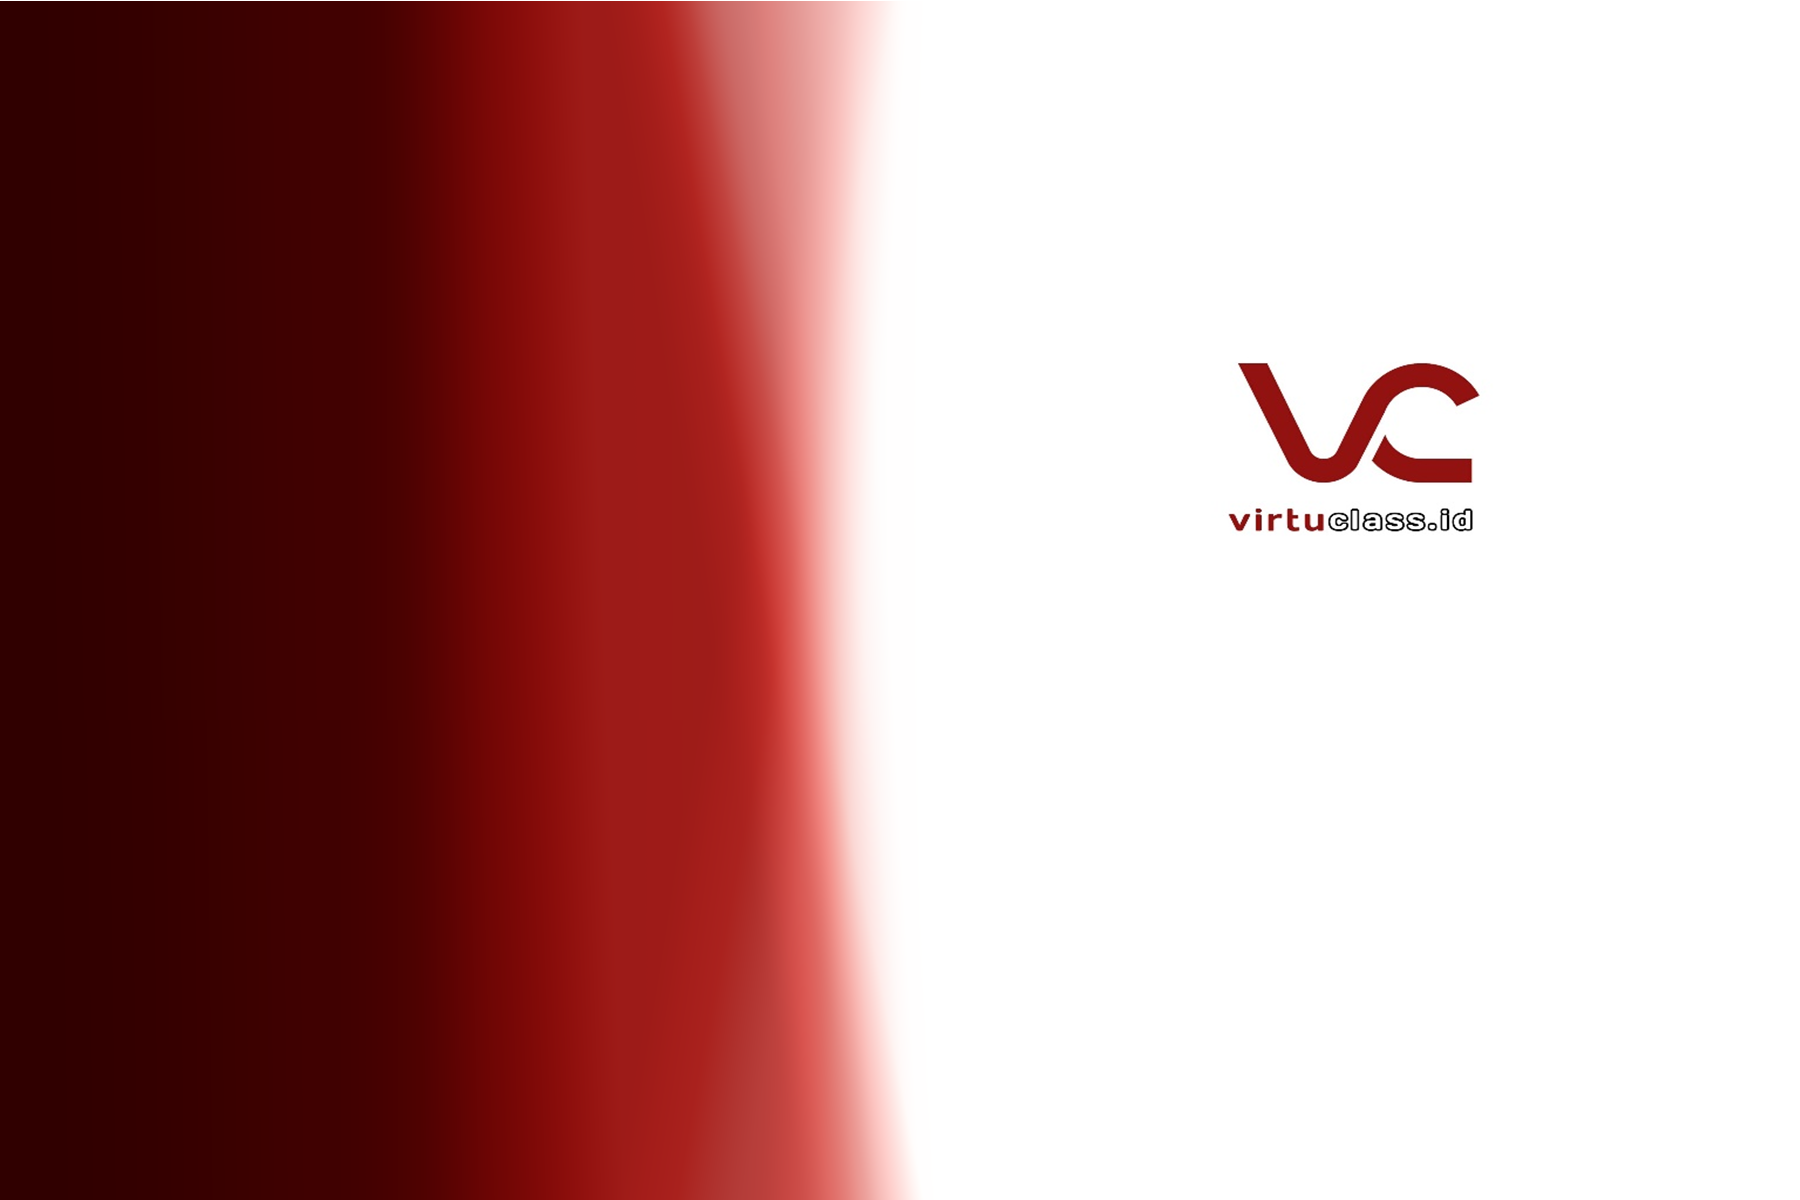
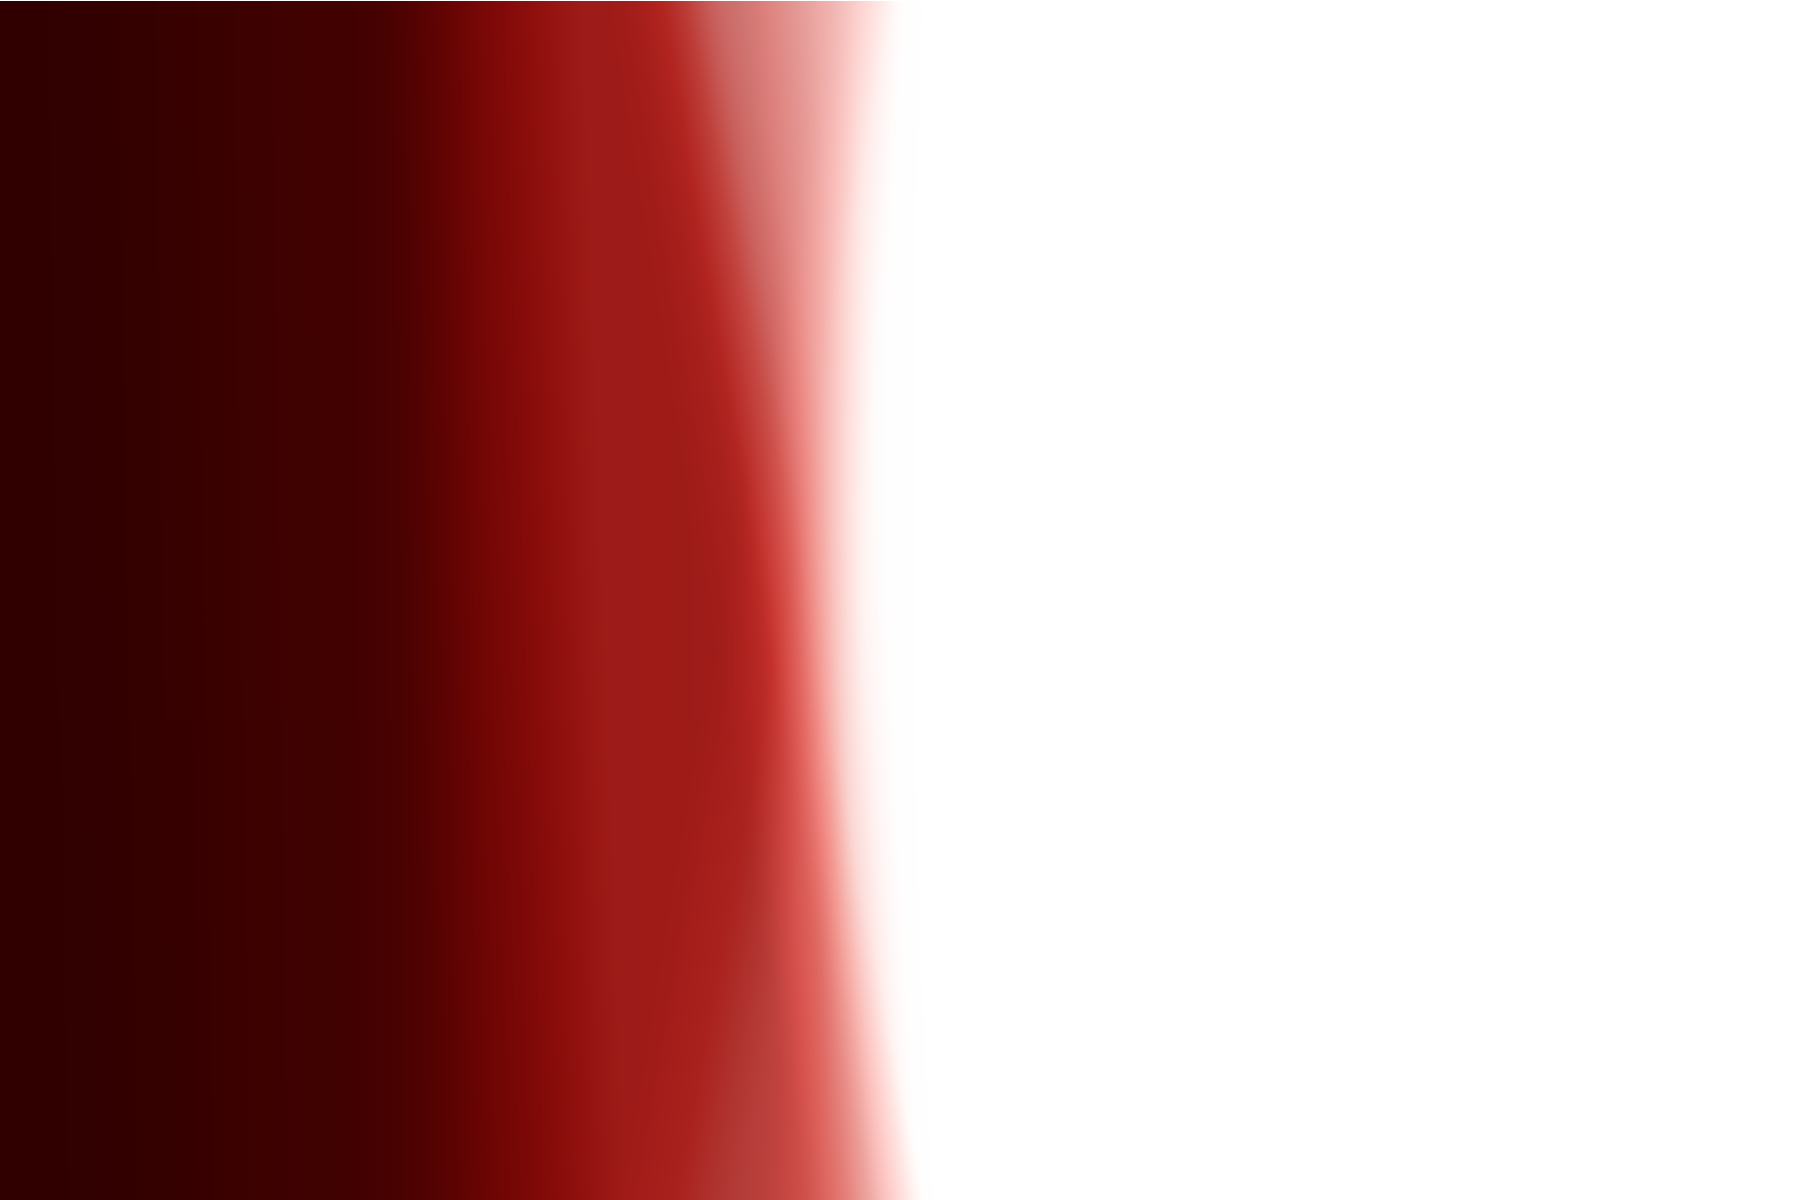
update biar kompetibel di mobile
ganti ganti di max width 400 px an

Changed region(s): [[0.6844, 0.2775, 0.84, 0.4625]]

diff --git a/index.html b/index.html
@@ -63,6 +63,7 @@
 <section id="hero" class="section">
 <div class="container">
 	<div class="row">
+		<img src="assets/img/virtuclass_logoAsset 2.svg" class="upper-logo">
 		<div class="col-md-5">
 			<div class="herotext">
 				<h1 class="wow bounceInDown" data-wow-duration="1s" data-wow-delay="0.1s">Virtu<span class="lighter">Class</span></h1>
@@ -70,27 +71,28 @@
 					Belajar, Bercanda, Mengerti
 				</p>
 				<p>
-					<a href="https://www.instagram.com/virtuclass.id/" class="btn btn-default btn-lg wow fadeInLeft" role="button"> Klik di sini untuk <i>Media Social</i> Kami </a>
+					<a href="https://www.instagram.com/virtuclass.id/" class="btn btn-default btn-lg wow fadeInLeft" role="button"><i>Media Social</i> Kami </a>
 				</p>
 			</div>
 		</div>
 		<div class="col-md-7">
+			<img src="assets/img/virtuclass_logoAsset 2.svg" alt="virtuclass logo" class="img-vc-logo">
 		</div>
 	</div>
 </div>
 </section>
 <!-- About
 	================================================== -->
-<section id="about" class="parallax section" style="background-image: url(http://themepush.com/demo/runcharity/assets/img/1.jpg);">
+<section id="about" class="parallax section" style="background-image: url(assets/img/white\ bg.png);">
 <div class="wrapsection">
-	<div class="parallax-overlay" style="background-color: #640701;opacity:0.9;"></div>
+	<div class="parallax-overlay" style="background-color: #ffffff;opacity:0.9;"></div>
 	<div class="container">
 		<div class="row">
 			<div class="col-md-12">
 				<!-- Title -->
 				<div class="maintitle">
-					<h3 class="section-title"><strong>Virtu<span class="lighter">Class</span> Merupakan Sebuah Komunitas</strong> Belajar</h3>
-					<p class="lead">
+					<h3 class="section-title" style="color: #A90011;"><strong>Virtu<span class="lighter">Class</span> Merupakan Sebuah Komunitas</strong> Belajar</h3>
+					<p class="lead" style="color: #A90011;">
 						Apa saja yang kami lakukan?
 					</p>
 				</div>
@@ -134,14 +136,14 @@
 </section>
 <!-- Random
 	================================================== -->
-<section class="parallax section" style="background-image: url(assets/img/bg_vid.png);">
+<section class="parallax section">
 	<div class="wrapsection">
 	<div class="parallax-overlay"></div>
 	<div class="container">
 		<div class="row">
 			<div class="col-md-12 sol-sm-12">
 				<div class="maintitle">
-					<iframe src="https://www.youtube.com/embed/V3fnvxaiQsk" width="700" height="400" frameborder="0"></iframe>
+					<iframe src="https://www.youtube.com/embed/V3fnvxaiQsk" width="700" height="400" frameborder="0" class="youtube-embed"></iframe>
 				</div>
 			</div>
 		</div>

diff --git a/assets/css/style.css b/assets/css/style.css
@@ -388,6 +388,9 @@ label {
 	background-size: cover;
 	z-index: -100;
 }
+.parallax.section{
+	background-image: url(../img/virtuclass_banner_mobile.png);
+}
 /*	Navbar	==================================================*/
 .navbar-inverse .navbar-brand {
 	padding:30px 15px;
@@ -432,6 +435,7 @@ label {
 }
 #hero .herotext {
 	padding:160px 0px;
+	float: left;
 }
 #hero h1 {
 	font-size:50px;
@@ -441,6 +445,19 @@ label {
 }
 #hero .btn {
 	font-size:12px;
+}
+.img-vc-logo {
+	float: right;
+	padding-top: 80px;
+	width: 300px;
+	height: 400px;
+}
+.upper-logo{
+	padding-left: 8px;
+	padding-top: 8px;
+	width: 100px;
+	height: 100px;
+	display: none;
 }
 /*	Features	==================================================*/
 #features {
@@ -462,8 +479,8 @@ label {
 }
 .service-box {
 	margin-bottom:30px;
-	background-color:#fff;
-	color:#444;
+	background-color: #A90011;
+	color:rgb(255, 255, 255);
 	padding:30px;
 	  position: relative;
 }
@@ -1255,7 +1272,7 @@ img.mfp-img {
 					padding-right:30px;
 	}
 	#hero h1 {
-					font-size:38px;
+					font-size:20px;
 	}
 	#hero p.lead {
 					font-size:1.5em;
@@ -1263,4 +1280,25 @@ img.mfp-img {
 	.faq-block {
 					margin: 0;
 	}
-}
+	.navbar-toggle{
+		margin-right: 20px;
+	}
+	.img-vc-logo{
+		width: 10px;
+		height: 10px;
+		float: right;
+	}
+	.youtube-embed{
+		width: 300px;
+		height: 200px;
+	}
+	#parallax{
+		background-image: url(../img/reverse_bg.png);
+	}
+	.upper-logo{
+		display: block;
+		width: 200px;
+		height: 200px;
+		padding: 5px;
+	}
+}	
